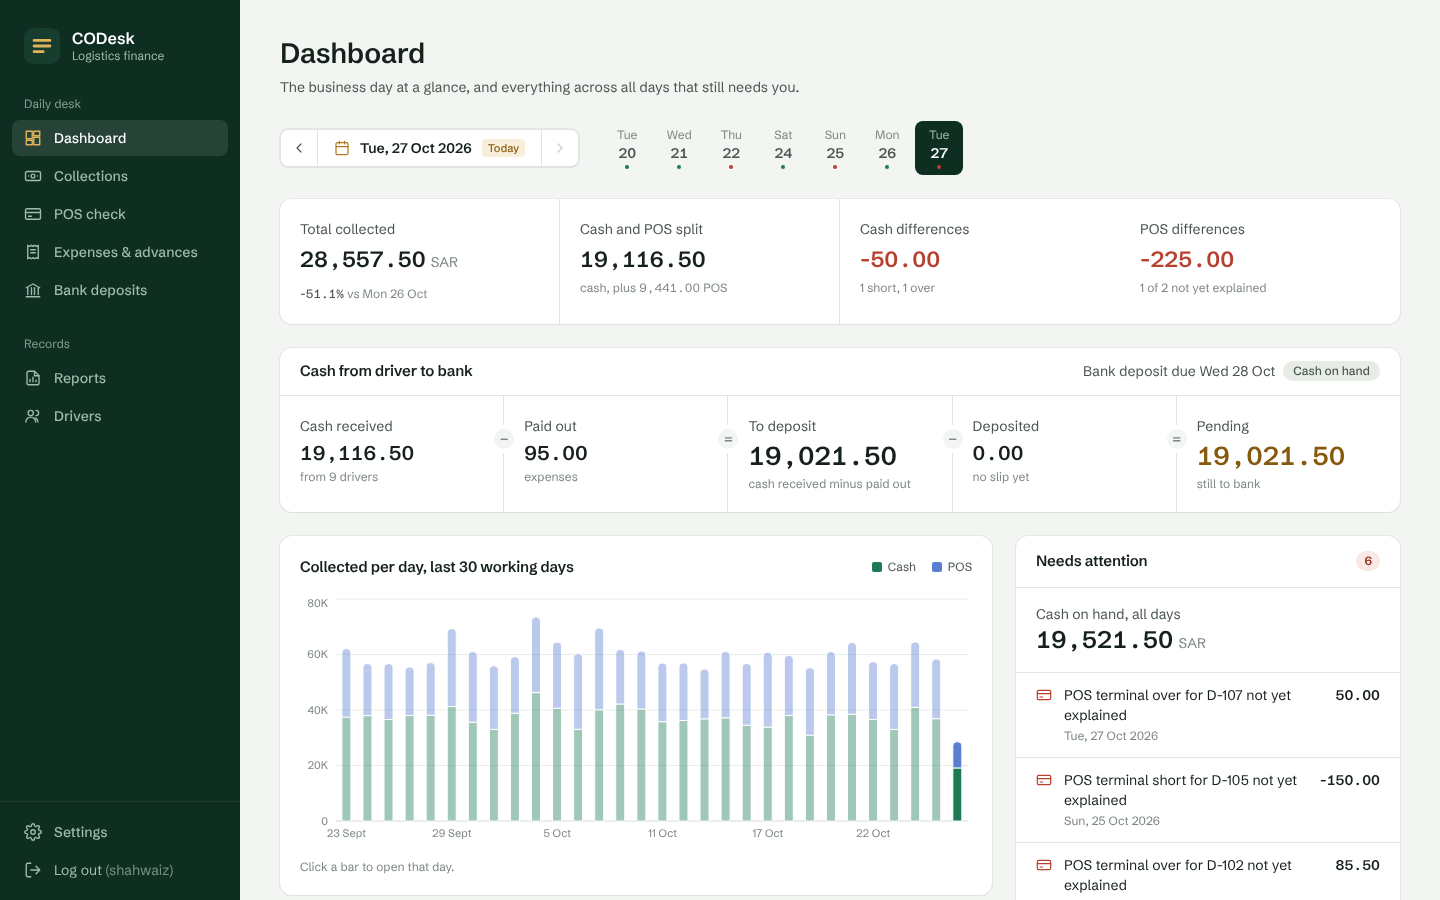
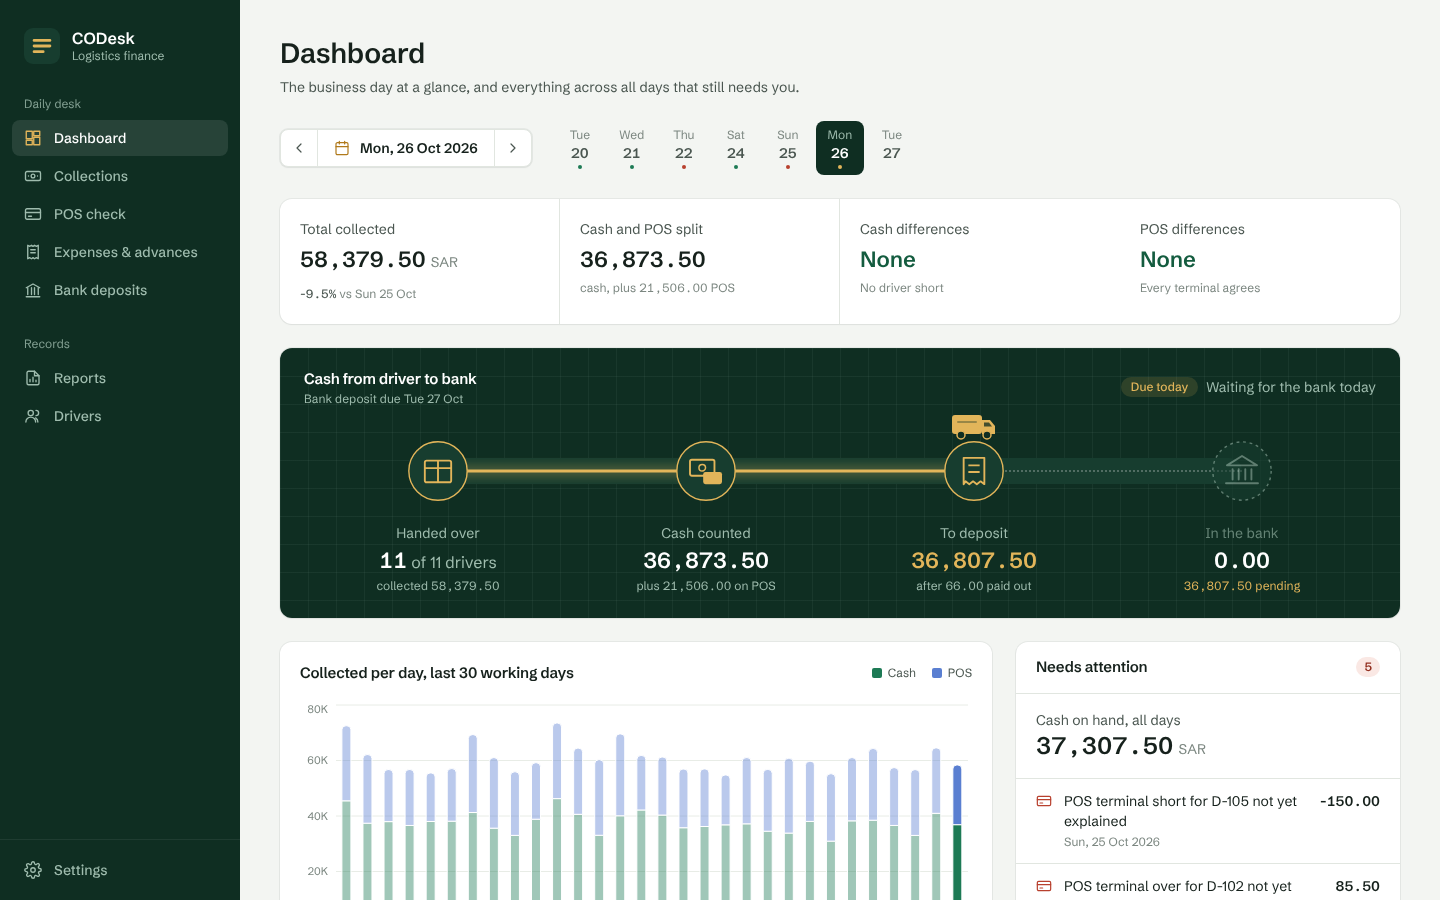
Dashboard money route with the van parked where the day's money is; simpler login illustration
Claude-Session: https://claude.ai/code/session_013Fw8fVPDP4jMuYiXhaHHHU

diff --git a/frontend/src/components/MoneyRoute.tsx b/frontend/src/components/MoneyRoute.tsx
@@ -1,0 +1,118 @@
+import { ReactNode, useEffect, useState } from "react";
+import { fmtDay, fmtMoney } from "../lib";
+import type { DashFigures } from "../types";
+
+/* The day's money drawn as a delivery route: handed over → counted → to deposit → bank.
+   The van parks at the stop the money has really reached, so the picture IS the status. */
+
+const STOPS = [12.5, 37.5, 62.5, 87.5]; // stop centres, % of the width
+const BRASS = "#e2b55a";
+
+type Tone = "leaf" | "brass" | "short";
+const TONE: Record<Tone, { line: string; text: string; chip: string }> = {
+  leaf: { line: "#5fbf8e", text: "text-[#7fd3a6]", chip: "bg-[#5fbf8e]/15 text-[#a9e6c4]" },
+  brass: { line: BRASS, text: "text-brass-glow", chip: "bg-brass-glow/15 text-brass-glow" },
+  short: { line: "#e8715d", text: "text-[#f09a8a]", chip: "bg-[#e8715d]/20 text-[#f6b1a4]" },
+};
+
+/** Where the van is (0 = handed over … 3 = bank) and what colour the trip is. */
+export function routeState(f: DashFigures): { at: number; tone: Tone; note: string } {
+  if (!f.drivers) return { at: 0, tone: "brass", note: "No handovers yet" };
+  if (f.deposit_status === "deposited" || f.deposit_status === "over") return { at: 3, tone: "leaf", note: "Banked in full" };
+  if (f.deposit_status === "short") return { at: 2.55, tone: "short", note: `${fmtMoney(f.pending)} still missing` };
+  if (f.deposit_status === "overdue") return { at: 2, tone: "short", note: "Late for the bank" };
+  if (f.deposit_status === "nothing") return { at: 2, tone: "leaf", note: "Nothing to bank" };
+  return { at: 2, tone: "brass", note: f.deposit_status === "due_today" ? "Waiting for the bank today" : "Cash on hand" };
+}
+
+function Van({ color }: { color: string }) {
+  return (
+    <svg viewBox="-24 -16 50 30" className="h-[30px] w-[50px]" aria-hidden="true">
+      <rect x="-21" y="-11" width="30" height="19" rx="3" fill={color} />
+      <path d="M9 -6H17L22 0V8H9Z" fill={color} />
+      <path d="M11 -3.5H16L19 0.5H11Z" fill="#0f2e22" opacity="0.75" />
+      <path d="M-15 -4H3" stroke="#0f2e22" strokeOpacity="0.35" strokeWidth="2" strokeLinecap="round" />
+      <circle cx="-12" cy="9" r="4" fill="#0f2e22" stroke={color} strokeWidth="1.5" />
+      <circle cx="14" cy="9" r="4" fill="#0f2e22" stroke={color} strokeWidth="1.5" />
+    </svg>
+  );
+}
+
+const ICONS: ReactNode[] = [
+  <><rect x="-14" y="-11" width="28" height="23" rx="2" fill="none" strokeWidth="2" /><path d="M-14 -3H14M0 -11V12" strokeWidth="2" /></>,
+  <><rect x="-17" y="-12" width="26" height="17" rx="2" fill="none" strokeWidth="2" /><circle cx="-4" cy="-3.5" r="3.5" fill="none" strokeWidth="1.6" /><rect x="-3" y="1" width="20" height="13" rx="2.5" fill="currentColor" stroke="none" /></>,
+  <><path d="M-11 -14H11V14L7 11L3 14L-1 11L-5 14L-9 11L-11 14Z" fill="none" strokeWidth="2" strokeLinejoin="round" /><path d="M-6 -6H6M-6 1H6" strokeWidth="2" /></>,
+  <><path d="M-16 -6L0 -16L16 -6Z" fill="none" strokeWidth="2" strokeLinejoin="round" /><path d="M-10 -2V9M-3.5 -2V9M3.5 -2V9M10 -2V9M-17 13H17" strokeWidth="2" strokeLinecap="round" /></>,
+];
+
+export default function MoneyRoute({ f, activeDrivers }: { f: DashFigures; activeDrivers: number }) {
+  const state = routeState(f);
+  const tone = TONE[state.tone];
+  const [shown, setShown] = useState(0); // the van starts at the first stop and drives to its place
+  useEffect(() => {
+    const id = requestAnimationFrame(() => setShown(state.at));
+    return () => cancelAnimationFrame(id);
+  }, [state.at]);
+  const vanLeft = STOPS[0] + 25 * shown;
+
+  const stops = [
+    { label: "Handed over", value: <><span className="num">{f.drivers}</span><span className="text-base font-normal text-ledger-300"> of {activeDrivers} drivers</span></>,
+      foot: <>collected <span className="num">{fmtMoney(f.total_collected)}</span></> },
+    { label: "Cash counted", value: <span className="num">{fmtMoney(f.cash_received)}</span>,
+      foot: f.cash_short ? <span className="text-[#f09a8a]"><span className="num">{fmtMoney(f.cash_short)}</span> short</span> : <>plus <span className="num">{fmtMoney(f.pos_terminal)}</span> on POS</> },
+    { label: "To deposit", value: <span className="num">{fmtMoney(f.to_deposit)}</span>,
+      foot: <>after <span className="num">{fmtMoney(f.paid_out - f.returned)}</span> paid out</> },
+    { label: "In the bank", value: <span className="num">{fmtMoney(f.deposited)}</span>,
+      foot: f.pending > 0 ? <span className={tone.text}><span className="num">{fmtMoney(f.pending)}</span> pending</span> : f.deposited ? "nothing pending" : "no slip yet" },
+  ];
+
+  return (
+    <section aria-label="Cash from driver to bank" className="relative mb-6 overflow-hidden rounded-panel bg-ledger-900 text-white shadow-panel"
+      style={{ backgroundImage: "linear-gradient(rgba(159,188,174,.07) 1px, transparent 1px), linear-gradient(90deg, rgba(159,188,174,.07) 1px, transparent 1px)", backgroundSize: "28px 28px" }}>
+      <div className="flex flex-wrap items-center justify-between gap-3 px-6 pt-5">
+        <div>
+          <h2 className="text-[15px] font-semibold">Cash from driver to bank</h2>
+          <p className="text-xs text-ledger-300">{f.due_on ? <>Bank deposit due {fmtDay(f.due_on)}</> : "Where the day’s money is now"}</p>
+        </div>
+        <span className="flex items-center gap-2">
+          <span className={`rounded-full px-2.5 py-0.5 text-xs font-medium ${tone.chip}`}>{f.deposit_status_text}</span>
+          <span className="text-sm text-ledger-300">{state.note}</span>
+        </span>
+      </div>
+
+      {/* the road */}
+      <div className="relative mx-6 mt-4 hidden h-24 sm:block" aria-hidden="true">
+        <div className="absolute top-1/2 h-[26px] -translate-y-1/2 rounded-full bg-ledger-800" style={{ left: `${STOPS[0]}%`, right: `${100 - STOPS[3]}%` }} />
+        <div className="absolute top-1/2 h-0 -translate-y-1/2 border-t-2 border-dotted border-white/25" style={{ left: `${STOPS[0]}%`, right: `${100 - STOPS[3]}%` }} />
+        <div className="absolute top-1/2 h-[3px] -translate-y-1/2 rounded-full transition-[width] duration-[2400ms] ease-[cubic-bezier(.45,0,.3,1)]"
+          style={{ left: `${STOPS[0]}%`, width: `${vanLeft - STOPS[0]}%`, background: tone.line, boxShadow: `0 0 12px ${tone.line}` }} />
+        {STOPS.map((x, i) => {
+          const reached = i <= state.at;
+          const banked = i === 3 && state.tone === "leaf" && reached;
+          return (
+            <svg key={i} viewBox="-34 -34 68 68" className="absolute top-1/2 h-16 w-16 -translate-x-1/2 -translate-y-1/2 transition-opacity duration-700"
+              style={{ left: `${x}%`, color: banked ? TONE.leaf.line : reached ? BRASS : "#9fbcae", opacity: reached ? 1 : 0.55 }}>
+              <circle r="31" fill="#173d2f" stroke="currentColor" strokeWidth="1.5" strokeDasharray={reached ? undefined : "3 4"} />
+              <g stroke="currentColor">{ICONS[i]}</g>
+            </svg>
+          );
+        })}
+        <div className={`absolute top-1/2 -translate-x-1/2 transition-[left,transform] duration-[2400ms] ease-[cubic-bezier(.45,0,.3,1)] ${Number.isInteger(shown) ? "-translate-y-[calc(50%+46px)]" : "-translate-y-[calc(50%+2px)]"}`}
+          style={{ left: `${vanLeft}%` }}>
+          <Van color={state.tone === "short" ? "#e8715d" : BRASS} />
+        </div>
+      </div>
+
+      {/* the numbers under each stop */}
+      <dl className="grid grid-cols-2 gap-y-5 px-6 pb-6 pt-4 sm:grid-cols-4 sm:pt-1">
+        {stops.map((s, i) => (
+          <div key={s.label} className="px-2 sm:text-center">
+            <dt className={`text-sm ${i <= state.at ? "text-ledger-300" : "text-ledger-300/60"}`}>{s.label}</dt>
+            <dd className={`mt-1 text-[22px] font-semibold leading-tight ${i === 2 ? "text-brass-glow" : ""}`}>{s.value}</dd>
+            <dd className="mt-1 text-xs text-ledger-300">{s.foot}</dd>
+          </div>
+        ))}
+      </dl>
+    </section>
+  );
+}

diff --git a/frontend/src/pages/Dashboard.tsx b/frontend/src/pages/Dashboard.tsx
@@ -1,20 +1,17 @@
-import { ReactNode } from "react";
 import { Link } from "react-router-dom";
 import { Bar, BarChart, CartesianGrid, Cell, ResponsiveContainer, Tooltip, XAxis, YAxis } from "recharts";
 import { useBusinessDay } from "../businessDay";
 import DayPicker from "../components/DayPicker";
+import MoneyRoute from "../components/MoneyRoute";
 import { Icon } from "../components/icons";
 import { Badge, ErrorBox, Loading, Money, PageHeader, Panel } from "../components/ui";
 import { fmtDay, fmtMoney, useApi } from "../lib";
-import type { Dashboard as Dash, DashFigures, DepositStatus } from "../types";
+import type { Dashboard as Dash } from "../types";
 
 /* Chart colors, checked for color-blind separation and contrast on white. */
 const CASH = "#1d7a55";
 const POS = "#5a7fd1";
 
-const DEPOSIT_TONE: Record<DepositStatus, "leaf" | "brass" | "short" | "muted"> = {
-  deposited: "leaf", not_due: "muted", due_today: "brass", overdue: "short", short: "short", over: "brass", nothing: "muted",
-};
 
 function Change({ now, before, prevDate }: { now: number; before: number | undefined; prevDate: string | null }) {
   if (before == null || !prevDate) return null;
@@ -25,39 +22,6 @@ function Change({ now, before, prevDate }: { now: number; before: number | undef
     <span className="text-xs text-ink-faint">
       <span className={`num font-medium ${up ? "text-leaf-dark" : "text-ink-soft"}`}>{up ? "+" : ""}{pct.toFixed(1)}%</span> vs {fmtDay(prevDate)}
     </span>
-  );
-}
-
-/** The day's money from driver to bank, written as the ledger line the cashier works through. */
-function CashFlow({ f }: { f: DashFigures }) {
-  const step = (label: string, value: number, sign: string | null, foot: ReactNode, strong = false, tone?: "short" | "brass" | "leaf") => (
-    <div className="relative flex min-w-[9.5rem] flex-1 items-start gap-3 px-5 py-5">
-      {sign && <span aria-hidden="true" className="absolute -left-2.5 top-[2.1rem] grid h-5 w-5 place-items-center rounded-full bg-paper text-sm font-semibold text-ink-faint ring-4 ring-white">{sign}</span>}
-      <div>
-        <p className="text-sm text-ink-soft">{label}</p>
-        <p className={`mt-1 leading-tight ${strong ? "text-[26px] font-semibold" : "text-xl font-semibold"}`}><Money value={value} tone={tone} /></p>
-        <p className="mt-1 text-xs text-ink-faint">{foot}</p>
-      </div>
-    </div>
-  );
-  return (
-    <section aria-label="Cash from driver to bank" className="mb-6 overflow-hidden rounded-panel bg-white shadow-panel">
-      <div className="flex items-center justify-between gap-3 border-b border-paper-line px-5 py-3">
-        <h2 className="text-[15px] font-semibold">Cash from driver to bank</h2>
-        <span className="flex items-center gap-2 text-sm text-ink-soft">
-          {f.due_on && <>Bank deposit due {fmtDay(f.due_on)}</>}
-          <Badge tone={DEPOSIT_TONE[f.deposit_status]}>{f.deposit_status_text}</Badge>
-        </span>
-      </div>
-      <div className="flex flex-wrap divide-x divide-paper-line">
-        {step("Cash received", f.cash_received, null, <>from <span className="num">{f.drivers}</span> drivers</>)}
-        {step("Paid out", f.paid_out - f.returned, "−", f.advances ? <>incl. advances <span className="num">{fmtMoney(f.advances)}</span></> : "expenses")}
-        {step("To deposit", f.to_deposit, "=", "cash received minus paid out", true)}
-        {step("Deposited", f.deposited, "−", f.deposited ? "slips recorded" : "no slip yet")}
-        {step("Pending", f.pending, "=", f.pending > 0 ? "still to bank" : "nothing left", true,
-          f.pending > 0 ? (f.deposit_status === "overdue" || f.deposit_status === "short" ? "short" : "brass") : "leaf")}
-      </div>
-    </section>
   );
 }
 
@@ -143,7 +107,7 @@ export default function Dashboard() {
             </Link>
           </dl>
 
-          <CashFlow f={f} />
+          <MoneyRoute f={f} activeDrivers={data.active_drivers} />
 
           <div className="grid gap-6 xl:grid-cols-[minmax(0,1fr)_24rem]">
             <div className="min-w-0 space-y-6">

diff --git a/frontend/src/components/RouteArt.tsx b/frontend/src/components/RouteArt.tsx
@@ -75,23 +75,6 @@ export default function RouteArt({ className = "" }: { className?: string }) {
       </Stop>
       <Label x={480} y={452} title="Deposited" sub="next working day" anchor="middle" delay={3.4} />
 
-      {/* the day's ledger, filling in as the van passes each stop */}
-      <g transform="translate(24 300)">
-        <rect width="232" height="138" rx="12" fill="#173d2f" stroke={MINT} strokeOpacity="0.25" />
-        <text x="18" y="30" fill={MINT} fontSize="13">Today</text>
-        {[
-          { y: 60, label: "Cash received", value: "36,873.50", delay: 1.7 },
-          { y: 88, label: "POS checked", value: "21,506.00", delay: 2.2 },
-          { y: 116, label: "To the bank", value: "36,807.50", delay: 3.5, strong: true },
-        ].map((r) => (
-          <g key={r.label} className="route-fade" style={{ animationDelay: `${r.delay}s` }}>
-            <text x="18" y={r.y} fill={r.strong ? PAPER : MINT} fontSize="14" fontWeight={r.strong ? 600 : 400}>{r.label}</text>
-            <text x="214" y={r.y} textAnchor="end" fill={r.strong ? BRASS : PAPER} fontSize="14" fontWeight="600"
-              style={{ fontVariantNumeric: "tabular-nums" }}>{r.value}</text>
-          </g>
-        ))}
-      </g>
-
       {/* the van; it drives the route once and parks before the bank */}
       <g transform={still ? "translate(416 390)" : undefined}>
         {!still && <animateMotion dur="4s" begin="0s" fill="freeze" rotate="auto" path={ROUTE}

diff --git a/frontend/src/pages/Dashboard.test.tsx b/frontend/src/pages/Dashboard.test.tsx
@@ -50,3 +50,12 @@ test("reports offer both downloads for the chosen day", async () => {
   expect(links[0].getAttribute("href")).toMatch(/\/api\/reports\/day\?date=\d{4}-\d{2}-\d{2}&format=xlsx/);
   expect(screen.getAllByRole("link", { name: /Printable PDF/ })[1].getAttribute("href")).toMatch(/\/api\/reports\/range\?start=.*&format=pdf/);
 });
+
+test("the van parks where the day's money really is", async () => {
+  const { routeState } = await import("../components/MoneyRoute");
+  expect(routeState({ ...F, drivers: 0 }).at).toBe(0);
+  expect(routeState({ ...F, deposit_status: "due_today", deposited: 0 }).at).toBe(2);
+  expect(routeState(F)).toMatchObject({ tone: "short" }); // a short deposit is stuck before the bank
+  expect(routeState({ ...F, deposit_status: "deposited", pending: 0 })).toMatchObject({ at: 3, tone: "leaf" });
+  expect(routeState({ ...F, deposit_status: "overdue", deposited: 0 })).toMatchObject({ at: 2, tone: "short" });
+});

diff --git a/frontend/src/components/RouteArt.test.tsx b/frontend/src/components/RouteArt.test.tsx
@@ -5,5 +5,5 @@ import RouteArt from "./RouteArt";
 test("the welcome illustration tells the day's story in words too", () => {
   render(<RouteArt />);
   expect(screen.getByRole("img", { name: /parcel is delivered.*deposited at the bank/ })).toBeInTheDocument();
-  for (const word of ["Delivered", "Collected", "Deposited", "To the bank"]) expect(screen.getByText(word)).toBeInTheDocument();
+  for (const word of ["Delivered", "Collected", "Deposited"]) expect(screen.getByText(word)).toBeInTheDocument();
 });
